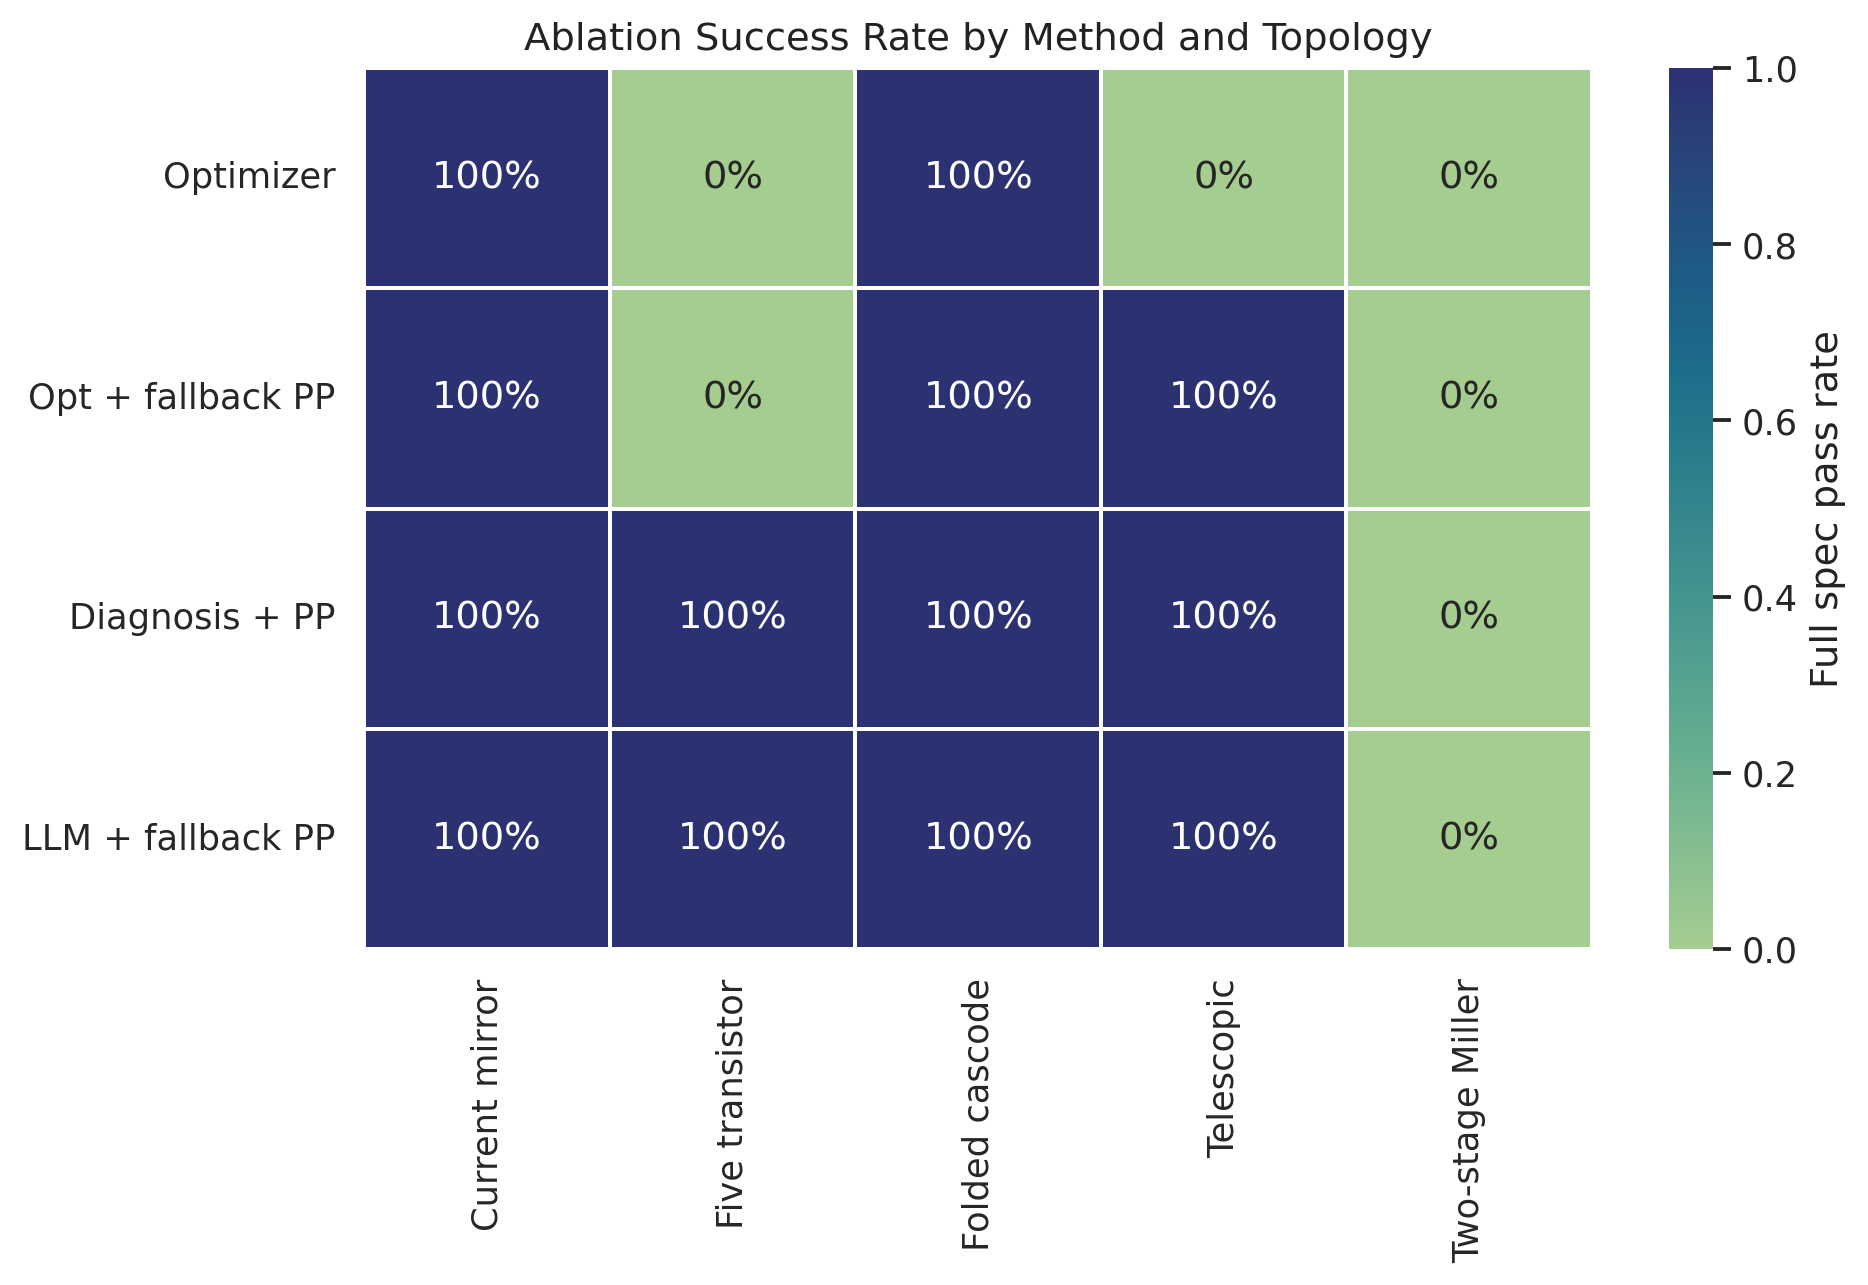
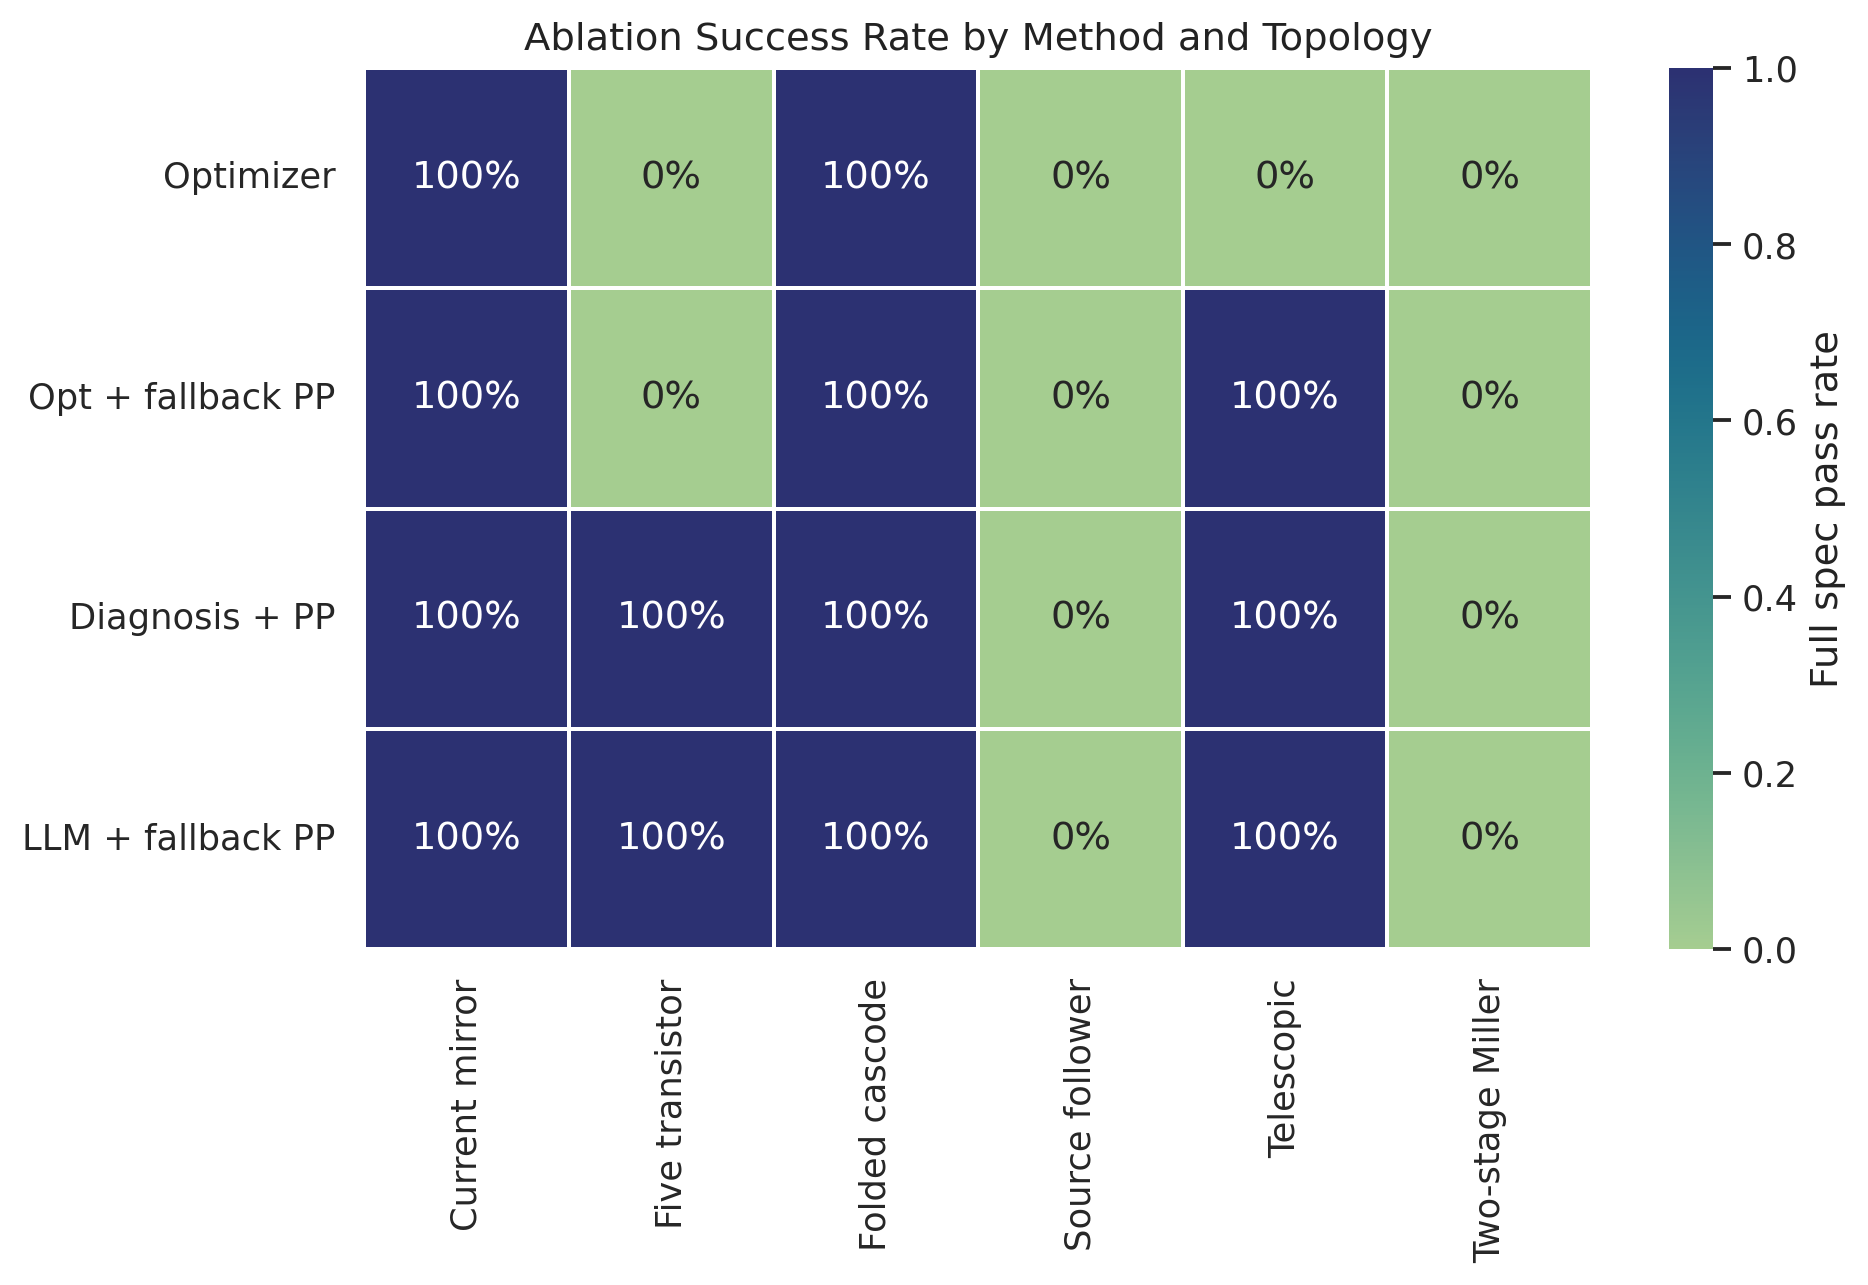
add all ota regression figures

diff --git a/README.md b/README.md
@@ -157,10 +157,11 @@ python main.py --config configs/default.yaml --generations 20 --agent-rounds 1
 ```
 
 The current IHP 130 nm OTA ablation matrix is defined in
-`configs/ablation_ihp130_ota.yaml`. It compares two-stage Miller,
-five-transistor, current-mirror, telescopic, and folded-cascode OTAs across
-optimizer-only, optimizer-plus-postprocess, deterministic diagnosis, and full
-LLM diagnosis methods:
+`configs/ablation_ihp130_ota.yaml`. It compares all bundled OTA examples:
+two-stage Miller, five-transistor, current-mirror, telescopic, folded-cascode,
+and source-follower-boosted OTAs across optimizer-only,
+optimizer-plus-postprocess, deterministic diagnosis, and full LLM diagnosis
+methods:
 
 ```bash
 python scripts/run_ablation.py --config configs/ablation_ihp130_ota.yaml
@@ -174,6 +175,8 @@ python scripts/plot_ablation_results.py \
 Recent evaluation snapshots:
 
 ![Ablation success rate by method and OTA topology](docs/assets/ablation_success_rate.png)
+
+![Spec achievement heatmap across all bundled OTAs](docs/assets/ablation_spec_achievement_heatmap.png)
 
 ![Gain-bandwidth-power tradeoff across OTA methods](docs/assets/ablation_gain_bandwidth_power.png)
 

diff --git a/docs/README.md b/docs/README.md
@@ -157,10 +157,11 @@ python main.py --config configs/default.yaml --generations 20 --agent-rounds 1
 ```
 
 The current IHP 130 nm OTA ablation matrix is defined in
-`configs/ablation_ihp130_ota.yaml`. It compares two-stage Miller,
-five-transistor, current-mirror, telescopic, and folded-cascode OTAs across
-optimizer-only, optimizer-plus-postprocess, deterministic diagnosis, and full
-LLM diagnosis methods:
+`configs/ablation_ihp130_ota.yaml`. It compares all bundled OTA examples:
+two-stage Miller, five-transistor, current-mirror, telescopic, folded-cascode,
+and source-follower-boosted OTAs across optimizer-only,
+optimizer-plus-postprocess, deterministic diagnosis, and full LLM diagnosis
+methods:
 
 ```bash
 python scripts/run_ablation.py --config configs/ablation_ihp130_ota.yaml
@@ -174,6 +175,8 @@ python scripts/plot_ablation_results.py \
 Recent evaluation snapshots:
 
 ![Ablation success rate by method and OTA topology](assets/ablation_success_rate.png)
+
+![Spec achievement heatmap across all bundled OTAs](assets/ablation_spec_achievement_heatmap.png)
 
 ![Gain-bandwidth-power tradeoff across OTA methods](assets/ablation_gain_bandwidth_power.png)
 

diff --git a/docs/ablation_experiments.md b/docs/ablation_experiments.md
@@ -42,6 +42,7 @@ topology set is:
 - `inputs/ota/current_mirror/current_mirror_ota_ihp130.yaml`
 - `inputs/ota/telescopic/telescopic_ota_ihp130.yaml`
 - `inputs/ota/folded_cascode/folded_cascode_ota_ihp130.yaml`
+- `inputs/ota/source_follower_boosted/source_follower_boosted_ota.yaml`
 
 For project reporting, compare the complete method against the optimizer-only,
 optimizer-plus-postprocess, and deterministic-diagnosis controls. The intended
